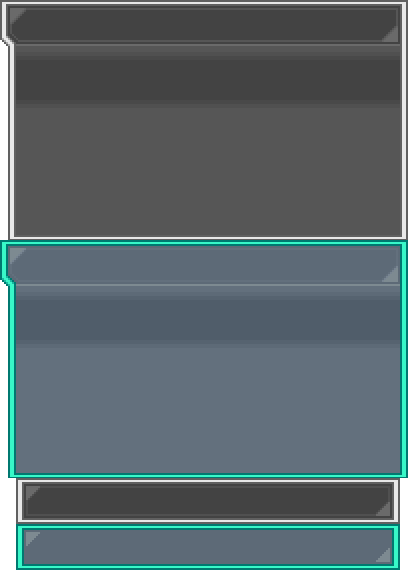
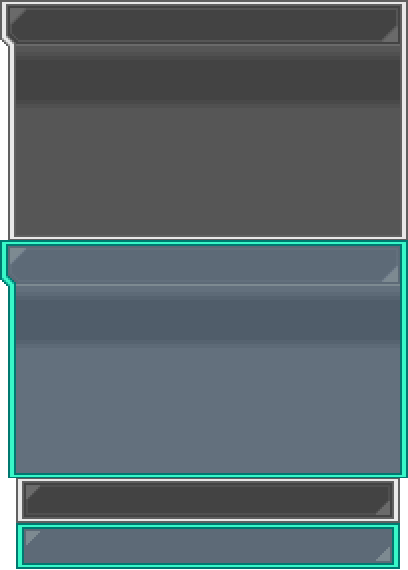
Correcciones graficas multipartida

Changed region(s): [[0.0294, 0.8947, 0.9706, 0.9544], [0.0294, 0.9842, 0.9706, 1.0], [0.0588, 0.8351, 0.9706, 0.8649]]

diff --git a/LA BASE DE SKY/Data/Scripts/048_UI/027_UI_Load.rb b/LA BASE DE SKY/Data/Scripts/048_UI/027_UI_Load.rb
@@ -52,7 +52,7 @@ class UI::LoadPanel < UI::SpriteContainer
   TEXT_COLOR_THEMES = {   # These color themes are added to @sprites[:overlay]
     :default => [Color.new(88, 88, 80), Color.new(168, 184, 184)]   # Base and shadow colour
   }
-  PANEL_WIDTH  = 400
+  PANEL_WIDTH  = 410
   PANEL_HEIGHT = 46
 
   def initialize(label, viewport)
@@ -127,8 +127,8 @@ class UI::LoadContinuePanel < UI::LoadPanel
     :male    => [Color.new(0, 112, 248), Color.new(120, 184, 232)],
     :female  => [Color.new(232, 32, 16), Color.new(248, 168, 184)]
   }
-  PANEL_WIDTH  = 392
-  PANEL_HEIGHT = 238
+  PANEL_WIDTH  = 410
+  PANEL_HEIGHT = 239
 
   def initialize(label, save_data, slot_index, total_slots, viewport)
     @save_data   = save_data
@@ -188,10 +188,8 @@ class UI::LoadContinuePanel < UI::LoadPanel
 
   def panel_srcs
     return {
-      :default  => [graphics_folder + "panels_new", 0, 0,
-                    self.class::PANEL_WIDTH, self.class::PANEL_HEIGHT],
-      :selected => [graphics_folder + "panels_new", 0, self.class::PANEL_HEIGHT,
-                    self.class::PANEL_WIDTH, self.class::PANEL_HEIGHT]
+      :default  => [graphics_folder + "panels_new", 0, 0, self.class::PANEL_WIDTH, self.class::PANEL_HEIGHT],
+      :selected => [graphics_folder + "panels_new", 0, self.class::PANEL_HEIGHT, self.class::PANEL_WIDTH, self.class::PANEL_HEIGHT]
     }
   end
 
@@ -307,7 +305,7 @@ class UI::LoadVisuals < UI::BaseVisuals
   attr_reader :save_data
 
   GRAPHICS_FOLDER    = "Load/"   # Subfolder in Graphics/UI
-  PANEL_SPACING_EDGE = 0
+  PANEL_SPACING_EDGE = 2
   PANEL_SPACING      = PANEL_SPACING_EDGE * 2
 
   # save_data here is an array of [save filename, save data hash]. It has been
